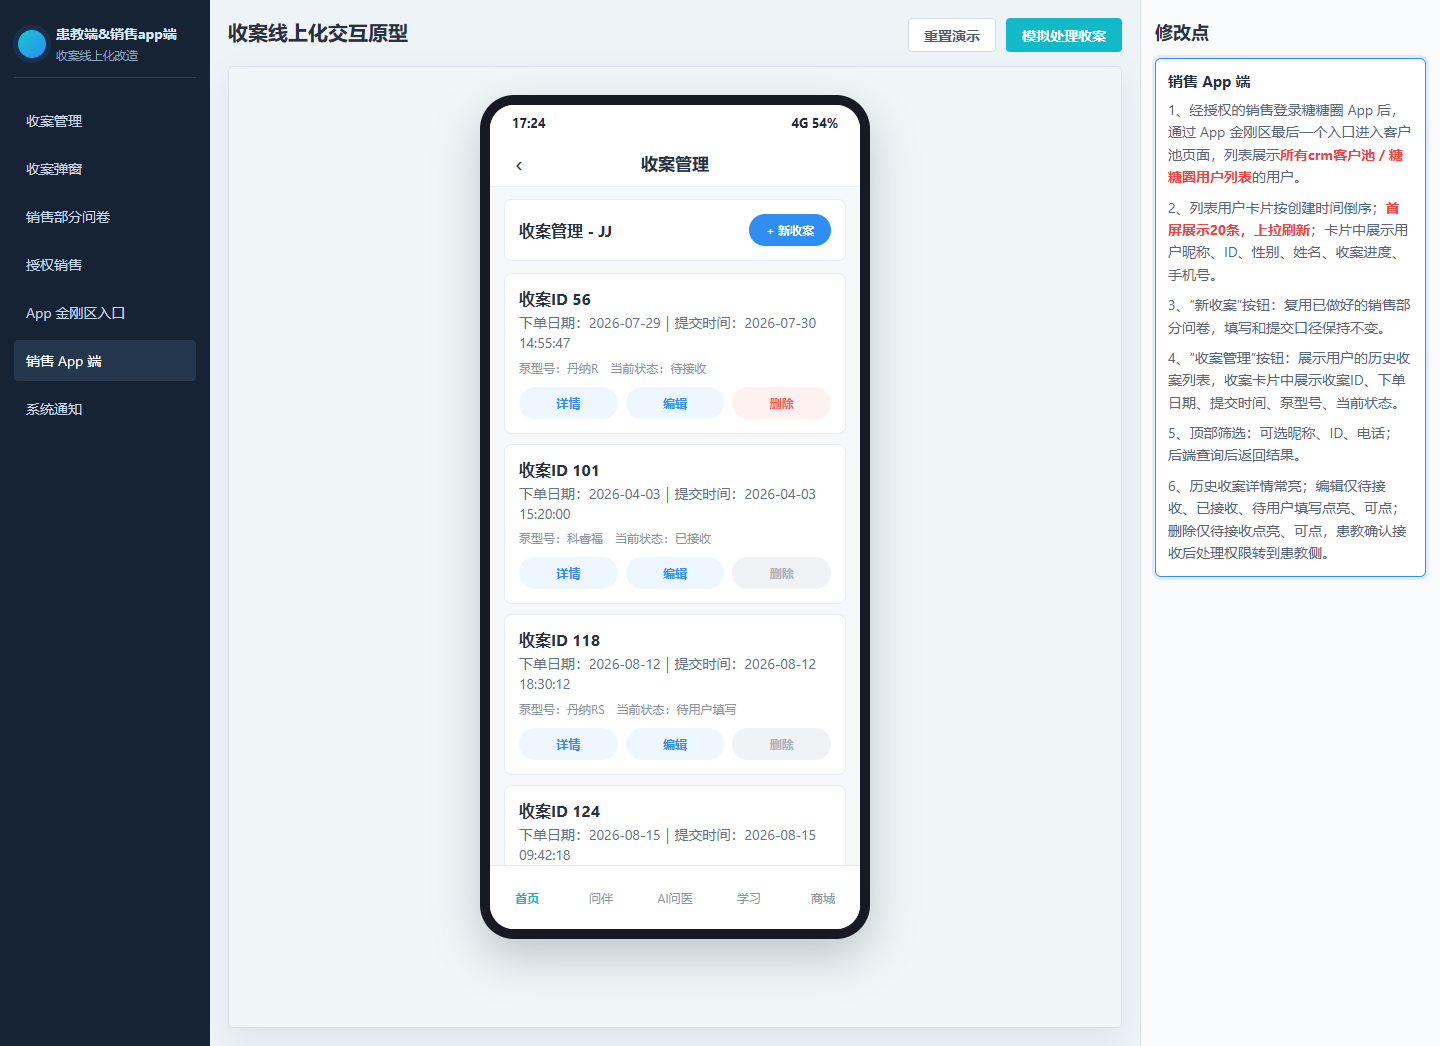
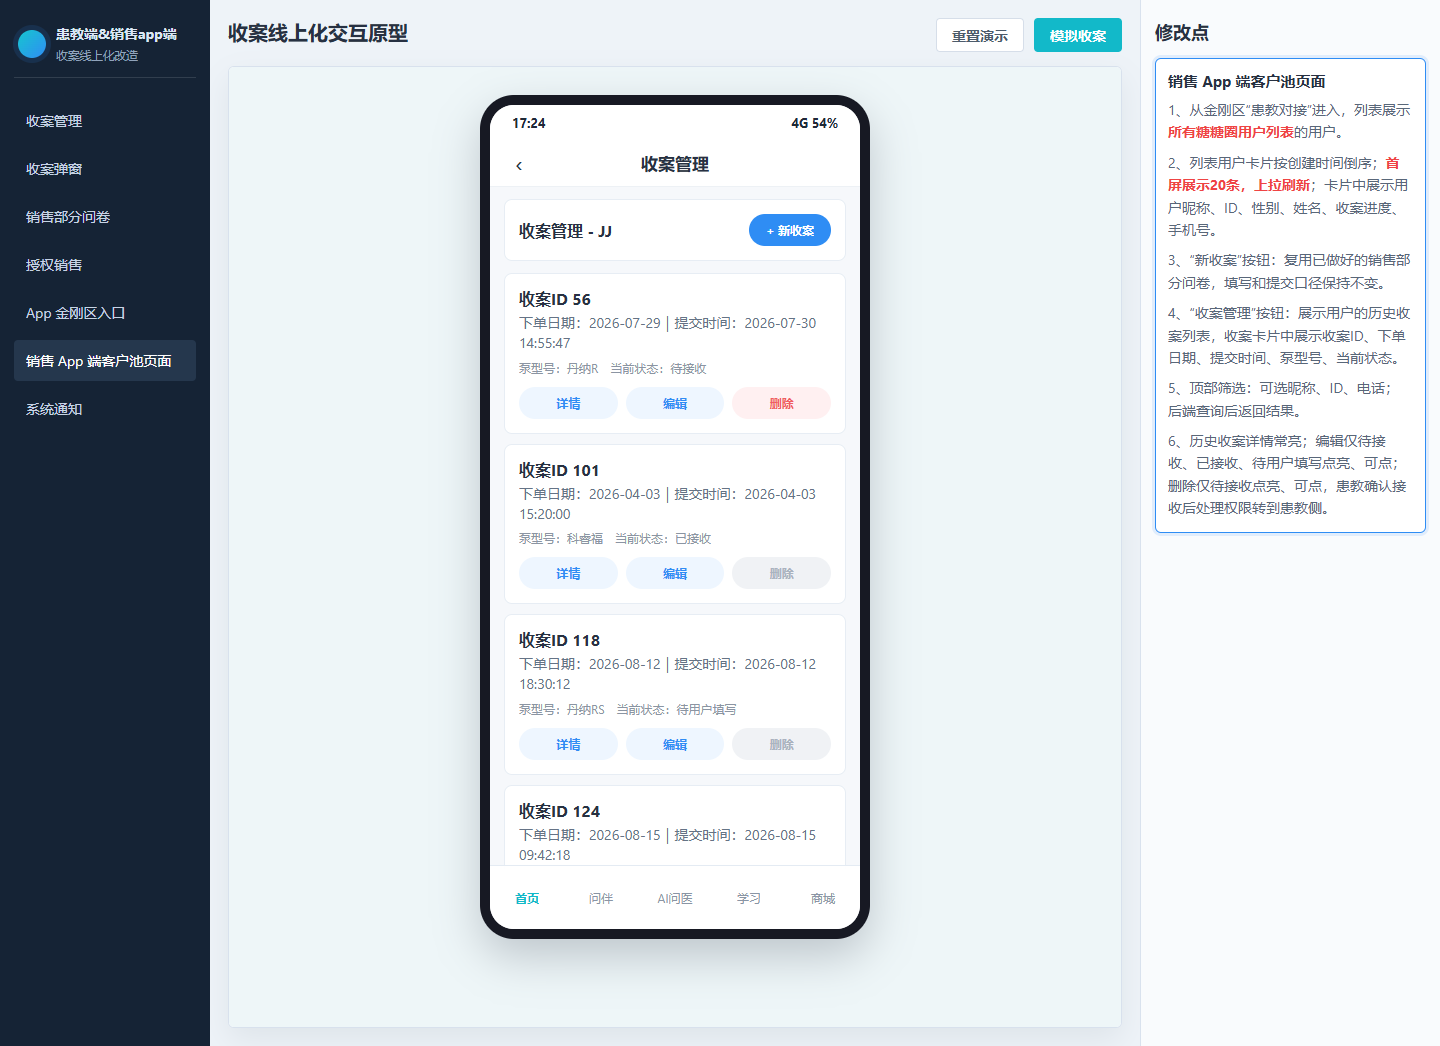
评审后修改

Changed region(s): [[0.8125, 0.0612, 1.0, 0.5507], [0.625, 0.0, 0.75, 0.0612], [0.0625, 0.3365, 0.125, 0.3671]]

diff --git a/index.html b/index.html
@@ -32,7 +32,7 @@
         </div>
         <div class="header-actions">
           <button class="ghost-btn" id="resetDemo">重置演示</button>
-          <button class="primary-btn" id="openReceiveFromHeader">模拟处理收案</button>
+          <button class="primary-btn" id="openReceiveFromHeader">模拟收案</button>
         </div>
       </header>
 
@@ -527,7 +527,7 @@
                     <div class="sales-user-main">
                       <strong>JJ <span>(65500)</span></strong>
                       <p>女｜36岁｜收案进度：已收案</p>
-                      <small>手机号：177****0574｜跟进人：JJ</small>
+                      <small>手机号：177****0574</small>
                     </div>
                     <div class="sales-user-actions">
                       <button type="button" data-view-jump="sales-questionnaire">新收案</button>
@@ -538,7 +538,7 @@
                     <div class="sales-user-main">
                       <strong>张三 <span>(65501)</span></strong>
                       <p>男｜4岁｜收案进度：用户已填写</p>
-                      <small>手机号：188****6000｜跟进人：liaojulan</small>
+                      <small>手机号：188****6000</small>
                     </div>
                     <div class="sales-user-actions">
                       <button type="button" data-view-jump="sales-questionnaire">新收案</button>
@@ -549,7 +549,7 @@
                     <div class="sales-user-main">
                       <strong>王女士 <span>(65502)</span></strong>
                       <p>女｜25岁｜收案进度：--</p>
-                      <small>手机号：138****8001｜跟进人：--</small>
+                      <small>手机号：138****8001</small>
                     </div>
                     <div class="sales-user-actions">
                       <button type="button" data-view-jump="sales-questionnaire">新收案</button>
@@ -718,11 +718,10 @@
         <p><span class="text-red">收案管理 tab 右上角增加数字徽标</span>，用于提示待确认接收的收案任务数量；全部确认后徽标消失。</p>
       </div>
       <div class="note-card" data-note="list">
-        <h3>收案弹窗</h3>
-        <p>操作列主按钮按状态展示：<span class="text-red">用户已填写之前的状态</span>都显示“收案准备”，<span class="text-red">用户已填写之后</span>显示“处理收案”。</p>
-        <p>两种弹窗顶部信息保持一致，均展示患者姓名、下单电话、问卷总得分、当前步骤、售前备注。</p>
-        <p>“收案准备”包含创建看板、创建群聊（试戴用户仅需创建看板）。</p>
-        <p>“处理收案”仅用于信息核对和完成收案，不再展示创建看板、创建群聊，且不展示步骤进度条。</p>
+        <h3>收案</h3>
+        <p>操作列主按钮不变，统一显示“收案”。</p>
+        <p>患教确认后，按钮点亮、可点击；收案完成后，置灰不可点击。</p>
+        <p>收案步骤顺序修改为：<span class="text-red">①创建看板②创建群聊③核对信息</span>。</p>
       </div>
       <div class="note-card" data-note="list">
         <h3>按钮名称修改</h3>
@@ -765,8 +764,8 @@
       </div>
       <div class="note-card" data-note="sales-app">
         <h3>销售 App 端客户池页面</h3>
-        <p>1、从金刚区“患教对接”进入，列表展示<span class="text-red">所有crm客户池 / 糖糖圈用户列表</span>的用户。</p>
-        <p>2、列表用户卡片按创建时间倒序；<span class="text-red">首屏展示20条，上拉刷新</span>；卡片中展示用户昵称、ID、性别、姓名、收案进度、手机号。</p>
+        <p>1、从金刚区“患教对接”进入，列表展示<span class="text-red">所有糖糖圈用户列表</span>的用户。</p>
+        <p>2、列表用户卡片按创建时间倒序；<span class="text-red">首屏展示20条，上拉刷新</span>；卡片中展示用户昵称、ID、性别、收案进度、手机号。</p>
         <p>3、“新收案”按钮：复用已做好的销售部分问卷，填写和提交口径保持不变。</p>
         <p>4、“收案管理”按钮：展示用户的历史收案列表，收案卡片中展示收案ID、下单日期、提交时间、泵型号、当前状态。</p>
         <p>5、顶部筛选：可选昵称、ID、电话；后端查询后返回结果。</p>
@@ -827,23 +826,39 @@
         <button id="closeReceive">×</button>
       </header>
       <div class="case-summary">
-        <h2><span id="receiveHeading">收案准备</span> - <span id="caseName">用户41807</span></h2>
+        <h2><span id="receiveHeading">收案</span> - <span id="caseName">用户41807</span></h2>
         <div class="summary-grid">
           <span>患者姓名：<b id="summaryName">用户41807</b></span>
           <span>下单电话：<b id="summaryPhone">138****1807</b></span>
           <span class="questionnaire-result">问卷总得分：<mark id="scoreText">20分</mark></span>
-          <span>当前步骤：<b id="stepName">信息核对</b></span>
+          <span>当前步骤：<b id="stepName">创建看板</b></span>
           <span class="questionnaire-result">售前备注：<b id="remarkText">还没收案时，年龄没显示，为空</b></span>
         </div>
       </div>
 
       <div class="stepper" id="stepper">
-        <button class="step active" data-mode="process" data-step="1"><span>1</span>信息核对</button>
-        <button class="step" data-mode="prepare" data-step="2"><span>1</span>创建看板</button>
-        <button class="step" data-mode="prepare" data-step="3"><span>2</span>创建群聊</button>
+        <button class="step active" data-step="1"><span>1</span>创建看板</button>
+        <button class="step" data-step="2"><span>2</span>创建群聊</button>
+        <button class="step" data-step="3"><span>3</span>核对信息</button>
       </div>
 
       <div class="step-body" data-step-body="1">
+        <div class="empty-card">
+          <b>创建类型：个案</b>
+          <p>服务看板名称：<span id="boardName">收案-用户41807</span></p>
+        </div>
+        <div class="modal-actions"><button class="primary-btn next-step" data-next="2">创建，下一步</button></div>
+      </div>
+
+      <div class="step-body hidden" data-step-body="2">
+        <form class="group-form">
+          <label>群聊名称：<input id="groupName" value="收案-用户41807" /></label>
+          <label>群聊描述：<textarea placeholder="可不填"></textarea></label>
+        </form>
+        <div class="modal-actions"><button class="primary-btn next-step" data-next="3">创建，下一步</button></div>
+      </div>
+
+      <div class="step-body hidden" data-step-body="3">
         <h3>第一部分：可同步至电子病历的信息</h3>
         <table class="check-table">
           <thead><tr><th><input type="checkbox" checked /></th><th>属性</th><th>更新前</th><th>更新后</th><th>附件</th><th>得分</th></tr></thead>
@@ -863,22 +878,6 @@
           </tbody>
         </table>
         <div class="modal-actions"><button class="primary-btn" id="finishReceive">完成收案</button></div>
-      </div>
-
-      <div class="step-body hidden" data-step-body="2">
-        <div class="empty-card">
-          <b>创建类型：个案</b>
-          <p>服务看板名称：<span id="boardName">收案准备-用户41807</span></p>
-        </div>
-        <div class="modal-actions"><button class="primary-btn next-step" data-next="3">创建，下一步</button></div>
-      </div>
-
-      <div class="step-body hidden" data-step-body="3">
-        <form class="group-form">
-          <label>群聊名称：<input id="groupName" value="收案准备-用户41807" /></label>
-          <label>群聊描述：<textarea placeholder="可不填"></textarea></label>
-        </form>
-        <div class="modal-actions"><button class="primary-btn" id="finishPrep">完成准备</button></div>
       </div>
     </section>
   </div>

diff --git a/app.js b/app.js
@@ -12,7 +12,6 @@ const initialCases = [
 let cases = initialCases.map(item => ({ ...item }));
 let currentStep = 1;
 let currentReceiveCaseId = null;
-let receiveMode = "prepare";
 let prepProgressById = {};
 let currentSalesAppPage = "users";
 let pendingDeleteSalesAppRecord = null;
@@ -61,14 +60,7 @@ function statusClass(status) {
 }
 
 function receiveAction(status) {
-  if (["已接收", "用户填写中"].includes(status)) {
-    return { enabled: true, label: "收案准备", mode: "prepare" };
-  }
-  if (status === "用户已填写") {
-    return { enabled: true, label: "处理收案", mode: "process" };
-  }
-  if (status === "已收案") return { enabled: false, label: "处理收案", mode: "process" };
-  return { enabled: false, label: "收案准备", mode: "prepare" };
+  return { enabled: ["已接收", "用户填写中", "用户已填写"].includes(status), label: "收案" };
 }
 
 function renderRows() {
@@ -321,16 +313,14 @@ function setView(view) {
 
 function openReceiveModal(caseId) {
   const target = cases.find(item => item.id === Number(caseId)) || cases.find(item => item.status === "用户已填写") || cases[0];
-  const meta = receiveAction(target.status);
   currentReceiveCaseId = target.id;
-  receiveMode = meta.mode;
   document.querySelector("#caseName").textContent = target.name;
   document.querySelector("#summaryName").textContent = target.name;
   document.querySelector("#summaryPhone").textContent = target.phone;
-  document.querySelector("#boardName").textContent = `收案准备-${target.name}`;
-  document.querySelector("#groupName").value = `收案准备-${target.name}`;
+  document.querySelector("#boardName").textContent = `收案-${target.name}`;
+  document.querySelector("#groupName").value = `收案-${target.name}`;
   receiveModal.classList.remove("hidden");
-  setStep(receiveMode === "prepare" ? (prepProgressById[target.id] || 2) : 1);
+  setStep(prepProgressById[target.id] || 1);
 }
 
 function closeReceiveModal() {
@@ -350,32 +340,24 @@ function closeAutofillDrawer() {
 
 function setStep(step) {
   currentStep = Number(step);
-  const target = cases.find(item => item.id === Number(currentReceiveCaseId));
-  const isTrialPrepare = receiveMode === "prepare" && target?.isTrial === true;
   const titles = {
-    1: "信息核对",
-    2: "创建看板",
-    3: "创建群聊"
+    1: "创建看板",
+    2: "创建群聊",
+    3: "核对信息"
   };
-  const heading = receiveMode === "prepare" ? "收案准备" : "处理收案";
-  receiveHeading.textContent = heading;
-  document.querySelector("#modalTitle").textContent = `${heading} - ${titles[currentStep]}`;
+  receiveHeading.textContent = "收案";
+  document.querySelector("#modalTitle").textContent = `收案 - ${titles[currentStep]}`;
   document.querySelector("#stepName").textContent = titles[currentStep];
-  document.querySelector("#stepper").classList.toggle("prepare-mode", receiveMode === "prepare");
-  document.querySelector("#stepper").classList.toggle("process-mode", receiveMode === "process");
-  document.querySelector("#stepper").classList.toggle("trial-prepare-mode", isTrialPrepare);
-  document.querySelector("#stepper").classList.toggle("hidden", receiveMode === "process");
-  document.querySelector('.next-step[data-next="3"]').textContent = isTrialPrepare ? "完成准备" : "创建，下一步";
+  document.querySelector("#stepper").classList.remove("prepare-mode", "process-mode", "trial-prepare-mode", "hidden");
   document.querySelectorAll(".step").forEach(button => {
     const buttonStep = Number(button.dataset.step);
-    button.classList.toggle("hidden", button.dataset.mode !== receiveMode || (isTrialPrepare && buttonStep === 3));
+    button.classList.remove("hidden");
     button.classList.toggle("active", buttonStep === currentStep);
     button.classList.toggle("done", buttonStep < currentStep);
   });
   document.querySelectorAll("[data-step-body]").forEach(body => {
     const bodyStep = Number(body.dataset.stepBody);
-    const bodyMode = bodyStep === 1 ? "process" : "prepare";
-    body.classList.toggle("hidden", bodyMode !== receiveMode || bodyStep !== currentStep || (isTrialPrepare && bodyStep === 3));
+    body.classList.toggle("hidden", bodyStep !== currentStep);
   });
 }
 
@@ -475,15 +457,8 @@ document.querySelectorAll(".step").forEach(button => {
 });
 document.querySelectorAll(".next-step").forEach(button => {
   button.addEventListener("click", () => {
-    const target = cases.find(item => item.id === Number(currentReceiveCaseId));
-    if (receiveMode === "prepare" && target?.isTrial) {
-      prepProgressById[currentReceiveCaseId] = 2;
-      closeReceiveModal();
-      showToast("已完成收案准备");
-      return;
-    }
-    if (receiveMode === "prepare" && currentReceiveCaseId) {
-      prepProgressById[currentReceiveCaseId] = Math.max(prepProgressById[currentReceiveCaseId] || 2, Number(button.dataset.next));
+    if (currentReceiveCaseId) {
+      prepProgressById[currentReceiveCaseId] = Math.max(prepProgressById[currentReceiveCaseId] || 1, Number(button.dataset.next));
     }
     setStep(button.dataset.next);
   });
@@ -496,11 +471,13 @@ document.querySelector("#finishReceive").addEventListener("click", () => {
   showToast("已完成收案");
 });
 
-document.querySelector("#finishPrep").addEventListener("click", () => {
-  if (currentReceiveCaseId) prepProgressById[currentReceiveCaseId] = 3;
-  closeReceiveModal();
-  showToast("已完成收案准备");
-});
+const finishPrep = document.querySelector("#finishPrep");
+if (finishPrep) {
+  finishPrep.addEventListener("click", () => {
+    closeReceiveModal();
+    showToast("已完成收案");
+  });
+}
 
 const copyQuestionnaireLink = document.querySelector("#copyQuestionnaireLink");
 if (copyQuestionnaireLink) {
